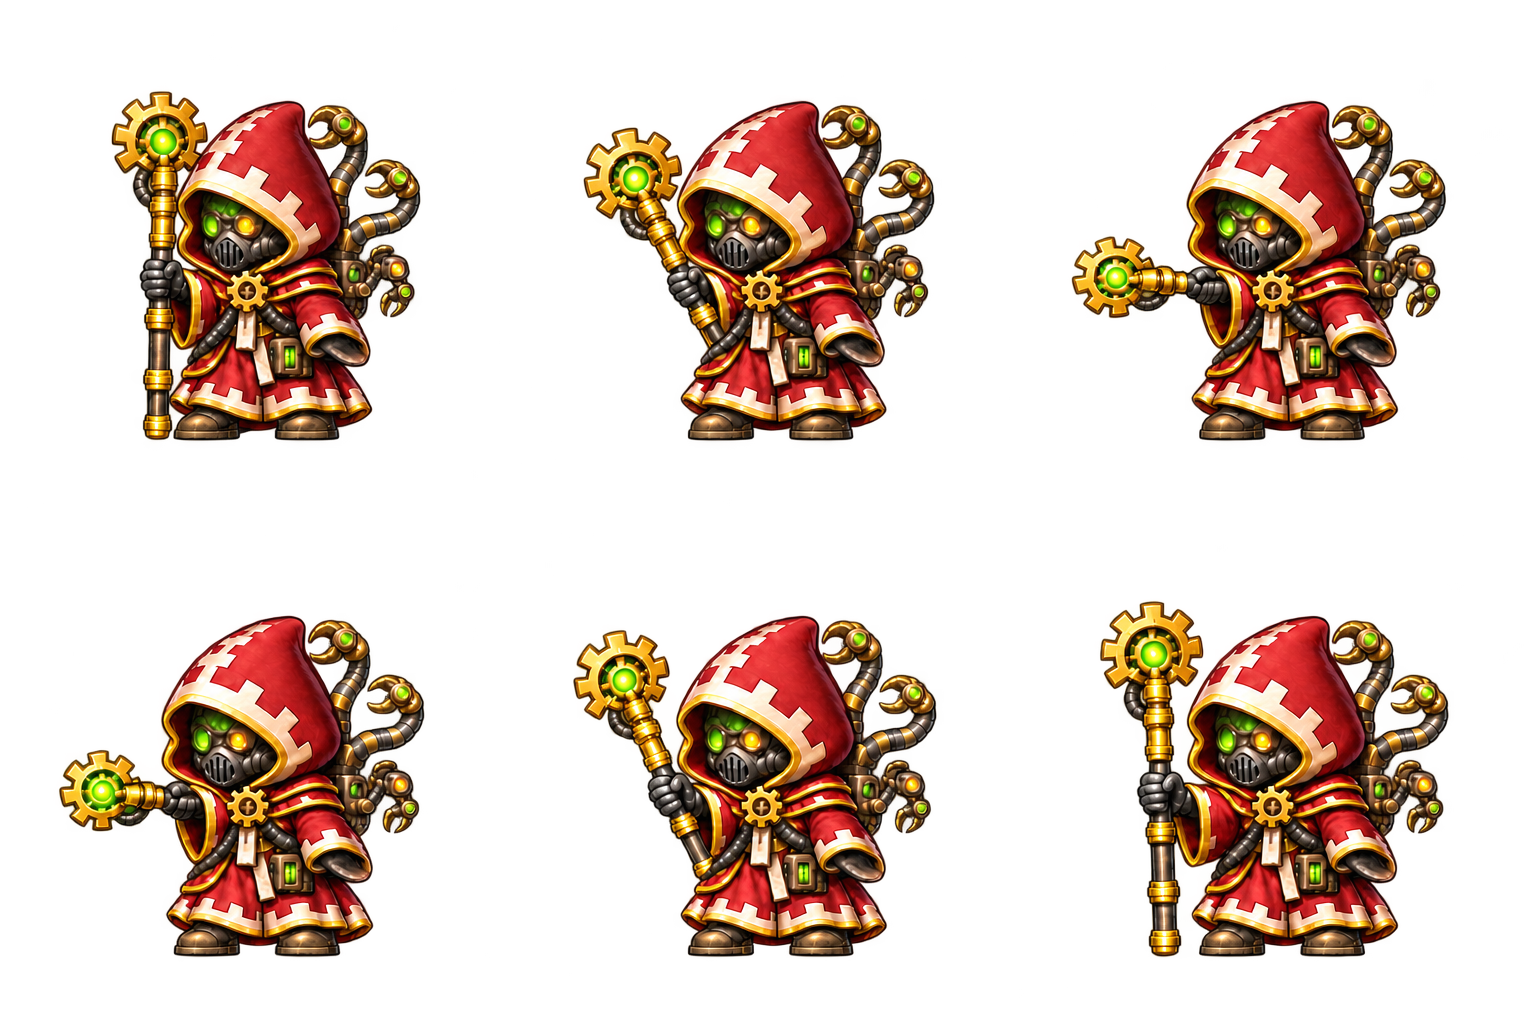
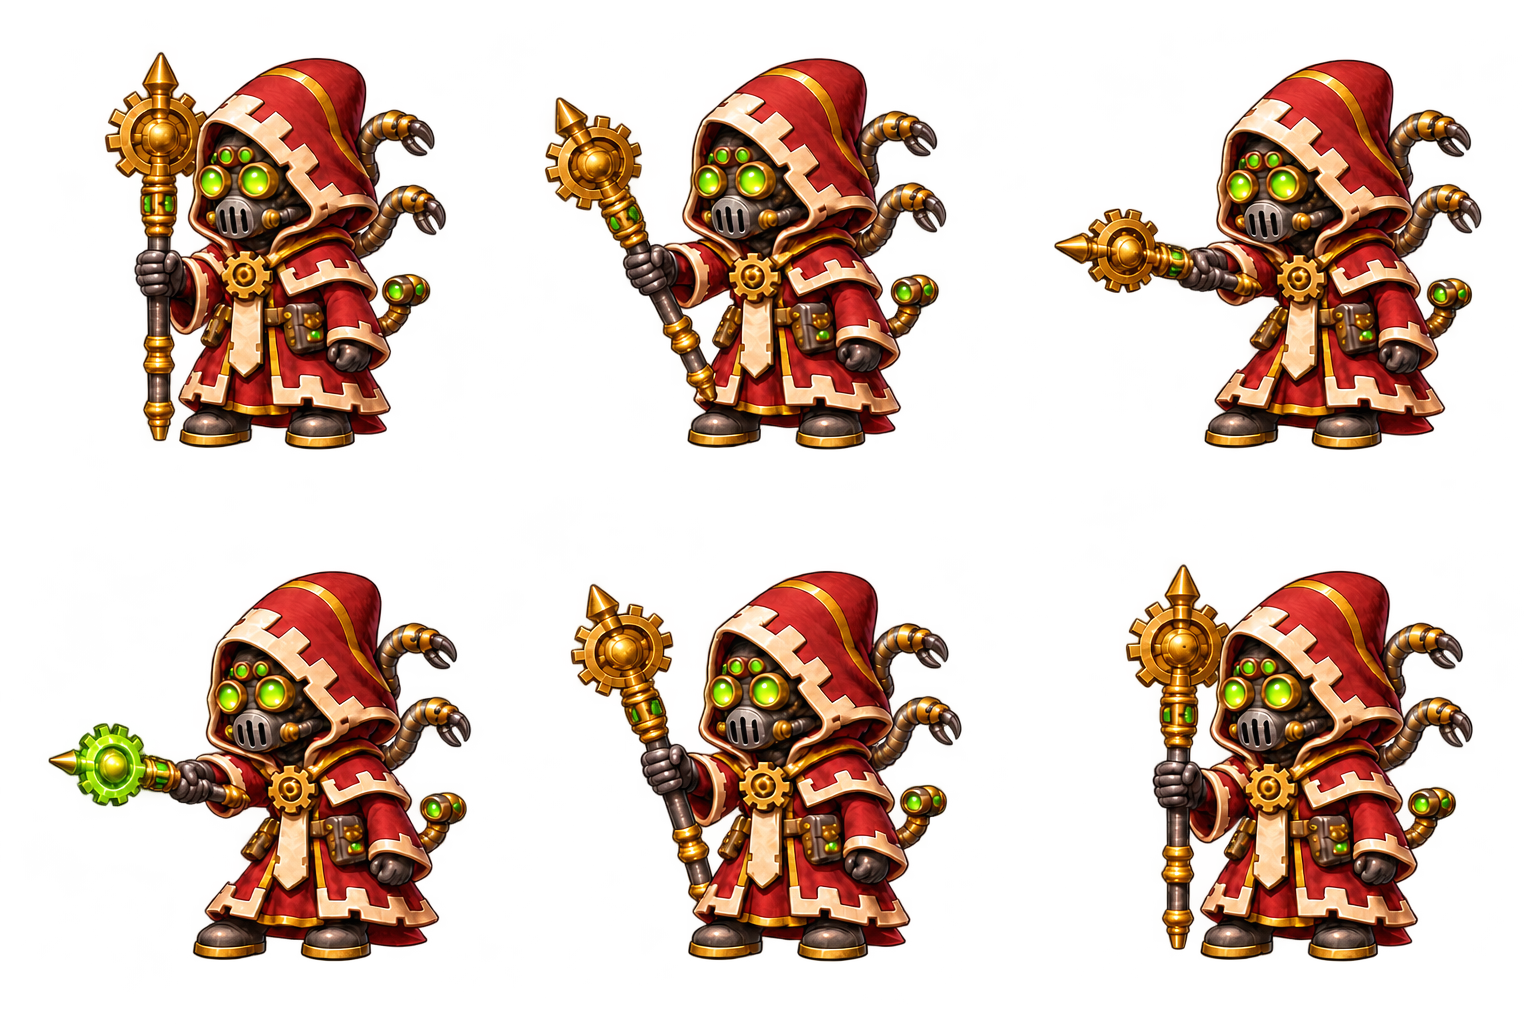
DM-661: regenerate Magos atlases from one canonical identity
- speak, order_one, order_all, summon, petition, chronicle regenerated with idle.png as canonical input and a fixed identity spec
- order_all: vertical overhead staff with flare, haze removed, renderScale 1.3
- Re-measured foot anchors; provenance updated

diff --git a/docs/mascot-sprites.md b/docs/mascot-sprites.md
@@ -18,37 +18,47 @@ The built-in ImageGen tool generated all seven assets from `build/mechanicus-cut
 
 ## Magos atlases (DM-661)
 
-The cult chamber's Magos uses seven transparent atlases in `src/renderer/src/assets/magos/`, read through [`magos/atlas.json`](../src/renderer/src/assets/magos/atlas.json). The contract is the mascot's: 1536×1024 sheets, a 3×2 grid of 512×512 cells, explicit row-major frame rectangles, an action-level fallback `footAnchor` (the median frame anchor) and per-frame local `footAnchor`s whose y is the bottommost alpha >128 pixel of that cell and whose x is the cell centre (256). `renderScale` is 1 for every action. The Magos faces left (into the room) in every atlas except `petition`, which faces the viewer; mirror horizontally for right-facing playback. `idle` loops at 6 fps, `speak` at 8 fps and `petition` at 4 fps; `order_one`, `order_all` and `summon` play once at 8 fps and `chronicle` once at 6 fps.
+The cult chamber's Magos uses seven transparent atlases in `src/renderer/src/assets/magos/`, read through [`magos/atlas.json`](../src/renderer/src/assets/magos/atlas.json). The contract is the mascot's: 1536×1024 sheets, a 3×2 grid of 512×512 cells, explicit row-major frame rectangles, an action-level fallback `footAnchor` (the median frame anchor) and per-frame local `footAnchor`s whose y is the bottommost alpha >128 pixel of that cell and whose x is the cell centre (256). `renderScale` is 1 for every action except `order_all` (1.3): its framing edit drew the figure about 77% of the canonical size so the overhead staff fits, and 1.3 restores the on-screen body size. The Magos faces left (into the room) in every atlas except `petition`, which faces the viewer; mirror horizontally for right-facing playback. `idle` loops at 6 fps, `speak` at 8 fps and `petition` at 4 fps; `order_one`, `order_all` and `summon` play once at 8 fps and `chronicle` once at 6 fps.
+
+### Canonical Magos and identity spec
+
+`idle.png` is the canonical Magos: it was generated first (from the master and the mascot idle atlas), and every other atlas was generated with `idle.png` as the first image input and `build/mechanicus-cute-master.png` as the second, with this identity spec repeated word for word in each prompt:
+
+“CANONICAL MAGOS IDENTITY (must match the attached canonical Magos atlas exactly, every frame): STAFF: tall brass staff, its head is a large brass cog ring with a round brass centre boss and a pointed brass spike finial on top, a small green gem inset in the upper shaft, gunmetal lower shaft with brass bands and a brass foot cap; NO skull, NO glowing orb replacing the boss (only a brief golden glow overlay where the action says so). HOOD: tall pointed crimson hood with a wide ivory step-pattern border around the face opening and a thin gold piping line running up the hood. FACE: dark gunmetal faceplate with exactly two large round green glowing lenses in brass rims side by side, two small round green lenses above them, and a grey vox-grille mouthpiece with vertical slots below. MECHADENDRITES: exactly two segmented gunmetal-and-brass mechadendrites rising behind the right shoulder, each ending in a brass two-pronged claw. SERVO-ARM: one short segmented brass servo-arm at the back hip ending in a small round green lens. ROBE: crimson robe with ivory step-pattern trim on sleeves and hem, an ivory front tabard panel, a brass cog clasp at the chest, a small brass belt pouch, dark gunmetal gloves and dark boots with brass soles.”
 
 ### Tool and provenance
 
-Every sheet was generated by ImageGen through the Codex CLI (`codex exec -i build/mechanicus-cute-master.png -i src/renderer/src/assets/mascot/idle.png`), with the master as identity reference and the mascot idle atlas as style, layout and scale reference. Outputs were copied from `~/.codex/generated_images/<session>/` into the project unchanged; no Python processing, hand-painted edits or vector stand-ins were used.
+Every sheet was generated by ImageGen through the Codex CLI (`codex exec -i <image> …`). Outputs were copied from `~/.codex/generated_images/<session>/` into the project unchanged; no Python processing, hand-painted edits or vector stand-ins were used.
 
-All seven generation prompts share this character and layout brief: “Create a polished 2D six-frame sprite animation atlas of a NEW senior character, the "Magos", in exactly the same painted chibi style, rendering, line quality and palette family as the attached tech-priest mascot (first image is the master identity reference, second image is the mascot's existing idle atlas for style, layout and scale). Magos design: same chibi proportions but visibly larger and more senior; a taller crimson hood with ivory step trim plus gold trim edging; under the hood a dark faceplate with a multi-lens visor of several small glowing green and gold lenses and a vox-grille; crimson robe with ivory step-pattern hem, brass and gunmetal details, brass cog clasp; two or three segmented brass-and-gunmetal mechadendrites curling up behind the shoulders; a small servo-arm on the back; carries a tall cog-topped brass staff of office in one hand. No text, lettering, numbers or logos anywhere. Layout: canvas exactly 1536x1024 px with a fully transparent background (true alpha, no checkerboard, no floor, no shadow plate), 3 columns by 2 rows of 512x512 cells, exactly one complete full-body Magos per cell, read row-major. Each figure including staff and mechadendrites must fit wholly inside its cell with at least 40 px transparent margin on every side; the figure (hood top to boot soles) about 400 px tall; boots planted on the same baseline at about y=460 within every cell, same scale in all six cells, feet steady.” Each prompt then adds the action sequence below.
+The canonical `idle.png` prompt (inputs: the master and `src/renderer/src/assets/mascot/idle.png`): “Create a polished 2D six-frame sprite animation atlas of a NEW senior character, the "Magos", in exactly the same painted chibi style, rendering, line quality and palette family as the attached tech-priest mascot (first image is the master identity reference, second image is the mascot's existing idle atlas for style, layout and scale). Magos design: same chibi proportions but visibly larger and more senior; a taller crimson hood with ivory step trim plus gold trim edging; under the hood a dark faceplate with a multi-lens visor of several small glowing green and gold lenses and a vox-grille; crimson robe with ivory step-pattern hem, brass and gunmetal details, brass cog clasp; two or three segmented brass-and-gunmetal mechadendrites curling up behind the shoulders; a small servo-arm on the back; carries a tall cog-topped brass staff of office in one hand. No text, lettering, numbers or logos anywhere. Layout: canvas exactly 1536x1024 px with a fully transparent background (true alpha, no checkerboard, no floor, no shadow plate), 3 columns by 2 rows of 512x512 cells, exactly one complete full-body Magos per cell, read row-major. Each figure including staff and mechadendrites must fit wholly inside its cell with at least 40 px transparent margin on every side; the figure (hood top to boot soles) about 400 px tall; boots planted on the same baseline at about y=460 within every cell, same scale in all six cells, feet steady. Facing LEFT in side three-quarter view in all six frames, standing at a helm. Sequence (idle loop): 1 settled holding staff upright; 2 visor lenses blink dim; 3 one mechadendrite twitches upward; 4 staff shifts slightly forward; 5 mechadendrites curl the other way; 6 return to settled.”
 
-- `idle.png` — ImageGen output `exec-941519e0-27a7-49bc-8214-223c4865a391.png` (session `01a21910-c3a5-7282-bdf4-e94288650c58`). Action prompt: “Facing LEFT in side three-quarter view in all six frames, standing at a helm. Sequence (idle loop): 1 settled holding staff upright; 2 visor lenses blink dim; 3 one mechadendrite twitches upward; 4 staff shifts slightly forward; 5 mechadendrites curl the other way; 6 return to settled.”
-- `speak.png` — ImageGen output `exec-2cd1259f-3fc0-447d-b1ed-3dc8b544afc5.png` (session `01a21910-c3c1-7851-af89-c58673f0eca9`). Action prompt: “Facing LEFT in side three-quarter view in all six frames. Sequence (speaking loop): 1 neutral, staff in right hand; 2 vox-grille glows brightly, free hand rises; 3 emphatic open-hand gesture forward-left with grille glowing; 4 fist raised in emphasis, lenses bright; 5 hand lowering, grille glow fading; 6 return to neutral.”
-- `order_one.png` — ImageGen output `exec-048cd0ed-1c78-491d-84cf-5cfd27f76039.png` (session `01a21915-21a0-7803-a9d1-4607c4936bd1`), framing edit of `exec-1d1db5d5-b8da-4d31-abd2-3a7af463e7a4.png` (session `01a21910-c412-72e1-b021-bb46a65a2696`), whose pointing staff reached x=8. Action prompt: “Facing LEFT in side three-quarter view in all six frames. Sequence (one-shot command to one acolyte): 1 staff upright at side; 2 staff begins to swing forward; 3 staff points straight forward-left, arm extended; 4 holds the point, cog head glowing; 5 staff returning upright; 6 settled, staff upright.”
-- `order_all.png` — ImageGen output `exec-afa87f44-6c28-4fc2-82c6-73111d616564.png` (session `01a21910-c3a1-7671-bf4e-5fae5878f51e`). Action prompt: “Facing LEFT in side three-quarter view in all six frames. Sequence (one-shot command to everyone): 1 staff upright; 2 staff lifting; 3 staff raised high overhead with both arms, mechadendrites spread; 4 the cog head of the staff flares with bright golden light; 5 staff lowering; 6 settled, staff upright. Keep the raised staff inside the cell margins.”
-- `summon.png` — ImageGen output `exec-63f40b74-203e-4010-a862-afc121d1cf76.png` (session `01a21910-c3a0-78e2-afe8-e2a5f7dca216`). Action prompt: “Facing LEFT in side three-quarter view in all six frames. Sequence (one-shot summoning): 1 standing with staff in right hand, free hand at chest; 2 free hand sweeps outward; 3 sweeping open-palm gesture down toward the floor in front (to the left), faint green glow at palm; 4 palm held low toward floor, glow strongest; 5 hand returning; 6 settled.”
-- `petition.png` — ImageGen output `exec-483d722b-6673-4349-b7ba-8fa4618cff35.png` (session `01a21915-21a0-78c0-9c11-6847e8990ecb`), framing edit of `exec-d06b3363-bb22-47aa-8a90-c3d9f9ce2f59.png` (session `01a21910-c3a8-74e0-b21e-a9c4a120380c`), whose hood touched y=10 and whose faint background haze crossed the bottom-row cells. Action prompt: “Facing the VIEWER (front view) in all six frames. Sequence (petition loop): the Magos holds up an unrolled parchment scroll with a red wax seal toward the viewer with both hands, staff leaning in the crook of the arm; frames gently vary: scroll lifts slightly, lenses blink, mechadendrites sway, scroll lowers, return. The scroll has no writing, only faint abstract lines.”
-- `chronicle.png` — ImageGen output `exec-9409a047-2f28-4b6d-8798-20845e1c4cb8.png` (session `01a21910-c3d7-7301-b981-b2518023a1d0`). Action prompt: “Facing LEFT in side three-quarter view in all six frames. Sequence (one-shot chronicle): frames 1 to 4 write on a handheld glowing green data-slate with a stylus or servo-arm (1 raise slate, 2 writing, 3 writing with mechadendrite assisting, 4 finishing stroke); frame 5 bows head, slate lowered, lenses dimming; frame 6 deep bow powered down, lenses dark. Staff held or leaning against shoulder.”
+The other six prompts are: “Create a six-frame sprite animation atlas of the Magos. The first attached image is the canonical Magos atlas (identity, scale, style); reproduce this exact character. The second attached image is the mascot master reference for painted chibi style.” + the identity spec above + the action sequence below + this layout brief: “Layout: canvas exactly 1536x1024 px, fully transparent background (every background pixel alpha exactly 0, no haze, no checkerboard, no floor, no shadow), 3 columns by 2 rows of 512x512 cells, exactly one complete full-body Magos per cell, row-major. Same size and scale as the canonical atlas (figure about 400 px tall), every figure including the staff wholly inside its cell with at least 40 px transparent margin on every side, boots planted on the same baseline near y=460 in every cell, feet steady. No text, lettering or logos. Painted chibi style identical to the mascot master reference.”
 
-Framing edit prompt (used for `order_one` and `petition`, with the generated sheet as the only input image): “Preserve all six poses, character details, identity, pose differences, 3x2 grid of 512x512 cells, colors and the 1536x1024 canvas. In every 512x512 cell uniformly shrink the complete figure (including staff, scroll and mechadendrites) to about 82%, center it horizontally, keep the boots on one shared baseline near y=455 in every cell, and leave at least 40 transparent pixels on all four sides of each cell. Do not crop, redraw, duplicate, rotate, flip or change gestures or facing. Background must be genuinely fully transparent alpha (alpha 0) everywhere outside the character, with no haze, glow fringe, noise or off-white tint.”
+- `idle.png` (canonical) — ImageGen output `exec-941519e0-27a7-49bc-8214-223c4865a391.png` (session `01a21910-c3a5-7282-bdf4-e94288650c58`).
+- `speak.png` — ImageGen output `exec-1dfc3007-ef3d-4dfe-bf3b-a298e12bd407.png` (session `01a2191d-93dc-7040-a36e-bc92e965d4d3`). Action: “Facing LEFT in side three-quarter view in all six frames, staff held upright in the left-side hand. Sequence (speaking loop): 1 neutral; 2 vox-grille glows brightly, free hand rises; 3 emphatic open-hand gesture forward-left with grille glowing; 4 fist raised in emphasis, lenses bright; 5 hand lowering, grille glow fading; 6 return to neutral.”
+- `order_one.png` — ImageGen output `exec-c51a2feb-5327-43b4-a28e-90547fc7e839.png` (session `01a2191d-93c7-7791-aea8-f04046d79c92`). Action: “Facing LEFT in side three-quarter view in all six frames. Sequence (one-shot command to one acolyte): 1 staff upright at side; 2 staff begins to swing forward; 3 staff points straight forward-left, arm extended; 4 holds the point, cog head glowing green; 5 staff returning upright; 6 settled, staff upright. Keep the pointed staff at least 40 px inside the cell edge.” (A background-cleanup edit, `exec-dab5fcf7-fec8-4228-a977-fc9268f78573.png`, returned an opaque background and was discarded.)
+- `order_all.png` — ImageGen output `exec-bc03ea00-7397-440f-87b6-d4875924ad70.png` (session `01a21923-1d99-7753-b85c-0aa8039dd938`): a framing edit of the background-cleanup edit `exec-7310bbc4-f2b3-455d-9dbe-486f17268c2e.png` (session `01a21920-8677-7362-a296-263479a066f8`) of the generated sheet `exec-94aeb959-a46e-4742-a384-6252d577cbd7.png` (session `01a2191d-9435-74a2-b41f-e63f0dfad81b`). Action: “Facing LEFT in side three-quarter view in all six frames. Sequence (one-shot command to everyone): 1 staff upright at side; 2 staff lifting up in front; 3 staff raised straight VERTICALLY high overhead with the arm fully extended up, mechadendrites spread; 4 staff still held vertically overhead and its cog head flares with a bright golden light burst; 5 staff lowering back down; 6 settled, staff upright at side. The overhead staff is vertical, not diagonal; shrink the figure slightly if needed so the raised staff stays 40 px inside the top of the cell.” Framing edit: “Preserve all six poses exactly (including the staff raised vertically overhead and the golden flare), the character identity and details, colors and the 1536x1024 3x2 grid of 512x512 cells. In every cell uniformly shrink the complete figure including the staff to about 90%, keep it horizontally where it is and keep the boots on the same baseline near y=455 in every cell, so that the top of the raised staff and flare are at least 45 px below the top edge of the cell. Every pixel outside the character must be fully transparent with alpha exactly 0, no haze or glow fringe. Do not crop, redraw, rotate, flip or change gestures or facing.”
+- `summon.png` — ImageGen output `exec-0a2bd4c5-1701-4f7f-a1fa-eff075c9b068.png` (session `01a2191d-93ee-7d42-a3bb-dc87160cf65f`). Action: “Facing LEFT in side three-quarter view in all six frames, staff upright in the left-side hand. Sequence (one-shot summoning): 1 free hand at chest; 2 free hand sweeps outward; 3 sweeping open-palm gesture down toward the floor in front (to the left), faint green glow at palm; 4 palm held low toward floor, glow strongest; 5 hand returning; 6 settled.”
+- `petition.png` — ImageGen output `exec-ae86a8eb-1fe9-4287-85ea-16aeb389ce21.png` (session `01a21920-8675-7982-ab07-146cdb7dc34e`), background-cleanup edit of `exec-d18663d8-0672-445b-9620-356bdf031b7d.png` (session `01a2191d-93ce-7a51-bd1c-b19132e51a98`). Action: “Facing the VIEWER (front view) in all six frames. Sequence (petition loop): holds up an unrolled blank parchment scroll with a red wax seal toward the viewer with both hands, the staff leaning in the crook of one arm, both mechadendrites and the servo-arm visible behind; frames gently vary: scroll lifts slightly, lenses blink, mechadendrites sway, scroll lowers, return. No writing on the scroll.”
+- `chronicle.png` — ImageGen output `exec-dbca3a95-ec03-4dc9-855b-70639d131dd1.png` (session `01a21920-867d-7d31-b139-d9f90fb409a8`), background-cleanup edit of `exec-86b8b6da-31c8-4bb1-90c4-4b4ed3b12334.png` (session `01a2191d-93ca-71d2-a534-f832992cb599`). Action: “Facing LEFT in side three-quarter view in all six frames, staff leaning against the shoulder. Sequence (one-shot chronicle): frames 1 to 4 write on a handheld glowing green data-slate with a stylus (1 raise slate, 2 writing, 3 writing with a mechadendrite assisting, 4 finishing stroke); frame 5 bows head, slate lowered, lenses dimming; frame 6 deep bow, powered down, all lenses dark.”
+
+Background-cleanup edit prompt (sheet as the only input): “Output exactly the same image: same six poses, same character, same positions, scale, colors, details and 1536x1024 3x2 grid of 512x512 cells. Only change the background: every pixel outside the character must be fully transparent with alpha exactly 0, removing all faint haze, glow fringe, dust and near-transparent noise in the background and margins. Keep at least 36 px fully transparent margin on every side of each cell. Do not crop, redraw, move, rotate, flip or change any pose.”
+
+Attempt 1 sheets (sessions `01a21910-…` other than idle, and `01a21915-…`) were superseded because the staff head, hood trim, lens layout, mechadendrites and servo-arm varied between atlases.
 
 ### Subject bounds
 
 Opaque subject bounds (alpha >128), source-local per cell, row-major:
 
 - `idle`: `(58,58)-(452,465)`, `(58,58)-(452,465)`, `(58,58)-(452,465)`, `(44,59)-(452,466)`, `(58,59)-(451,466)`, `(58,59)-(452,466)`.
-- `speak`: `(76,48)-(442,469)`, `(77,48)-(442,469)`, `(77,48)-(442,469)`, `(76,48)-(442,469)`, `(77,48)-(442,469)`, `(77,48)-(442,469)`.
-- `order_one`: `(112,91)-(419,439)`, `(72,101)-(421,439)`, `(48,101)-(421,440)`, `(59,104)-(423,444)`, `(61,104)-(423,444)`, `(76,89)-(423,444)`.
-- `order_all`: `(80,67)-(461,464)`, `(55,64)-(468,464)`, `(49,57)-(472,464)`, `(71,51)-(478,464)`, `(47,63)-(467,464)`, `(80,65)-(461,464)`.
-- `summon`: `(97,41)-(418,463)`, `(97,41)-(419,463)`, `(97,42)-(419,463)`, `(97,41)-(418,463)`, `(97,41)-(418,463)`, `(97,41)-(419,463)`.
-- `petition`: `(84,92)-(398,459)`, `(76,92)-(398,458)`, `(77,92)-(398,458)`, `(81,92)-(398,459)`, `(72,92)-(398,459)`, `(75,92)-(398,459)`.
-- `chronicle`: `(98,39)-(448,471)`, `(96,39)-(428,471)`, `(60,39)-(398,471)`, `(92,41)-(436,472)`, `(86,40)-(428,472)`, `(55,40)-(398,472)`.
+- `speak`: `(95,50)-(469,468)`, `(63,50)-(437,468)`, `(31,50)-(405,468)`, `(95,51)-(469,468)`, `(63,50)-(437,468)`, `(31,51)-(405,468)`.
+- `order_one`: `(105,52)-(445,448)`, `(33,58)-(433,448)`, `(31,60)-(456,449)`, `(49,59)-(470,448)`, `(59,59)-(448,448)`, `(102,53)-(448,448)`.
+- `order_all`: `(119,135)-(416,448)`, `(84,92)-(416,447)`, `(99,53)-(416,447)`, `(85,54)-(416,447)`, `(89,106)-(416,447)`, `(100,138)-(416,447)`.
+- `summon`: `(82,58)-(443,452)`, `(82,58)-(443,452)`, `(82,58)-(443,452)`, `(81,58)-(443,452)`, `(82,58)-(443,452)`, `(82,58)-(443,452)`.
+- `petition`: `(88,58)-(422,470)`, `(88,58)-(422,470)`, `(88,59)-(422,470)`, `(88,59)-(430,470)`, `(89,59)-(422,470)`, `(88,59)-(422,470)`.
+- `chronicle`: `(87,36)-(459,475)`, `(70,38)-(441,475)`, `(53,38)-(414,475)`, `(87,38)-(459,477)`, `(70,41)-(443,478)`, `(53,41)-(426,478)`.
 
-Every subject keeps at least 33 px of transparent margin inside its cell (alpha >16 bounds included), no alpha crosses a cell border, and the per-frame foot y varies by at most 5 px within an action. `actions.html` shows the seven Magos atlases animating beside the mascot's. `src/renderer/src/mascot/magosAtlas.test.ts` checks the actions, PNG headers, frame rectangles, foot anchors and timing.
+Every subject keeps at least 28 px of transparent margin inside its cell (alpha >16), no alpha crosses a cell border, and the per-frame foot y varies by at most 3 px within an action. In the 20 px margin band of every cell, no pixel exceeds alpha 2 (at most 2.8% of margin pixels are alpha 1–2, the same residue the mascot's `idle.png` shows). `actions.html` shows the seven Magos atlases animating beside the mascot's. `src/renderer/src/mascot/magosAtlas.test.ts` checks the actions, PNG headers, frame rectangles, foot anchors and timing.
 
 ## Validation
 
